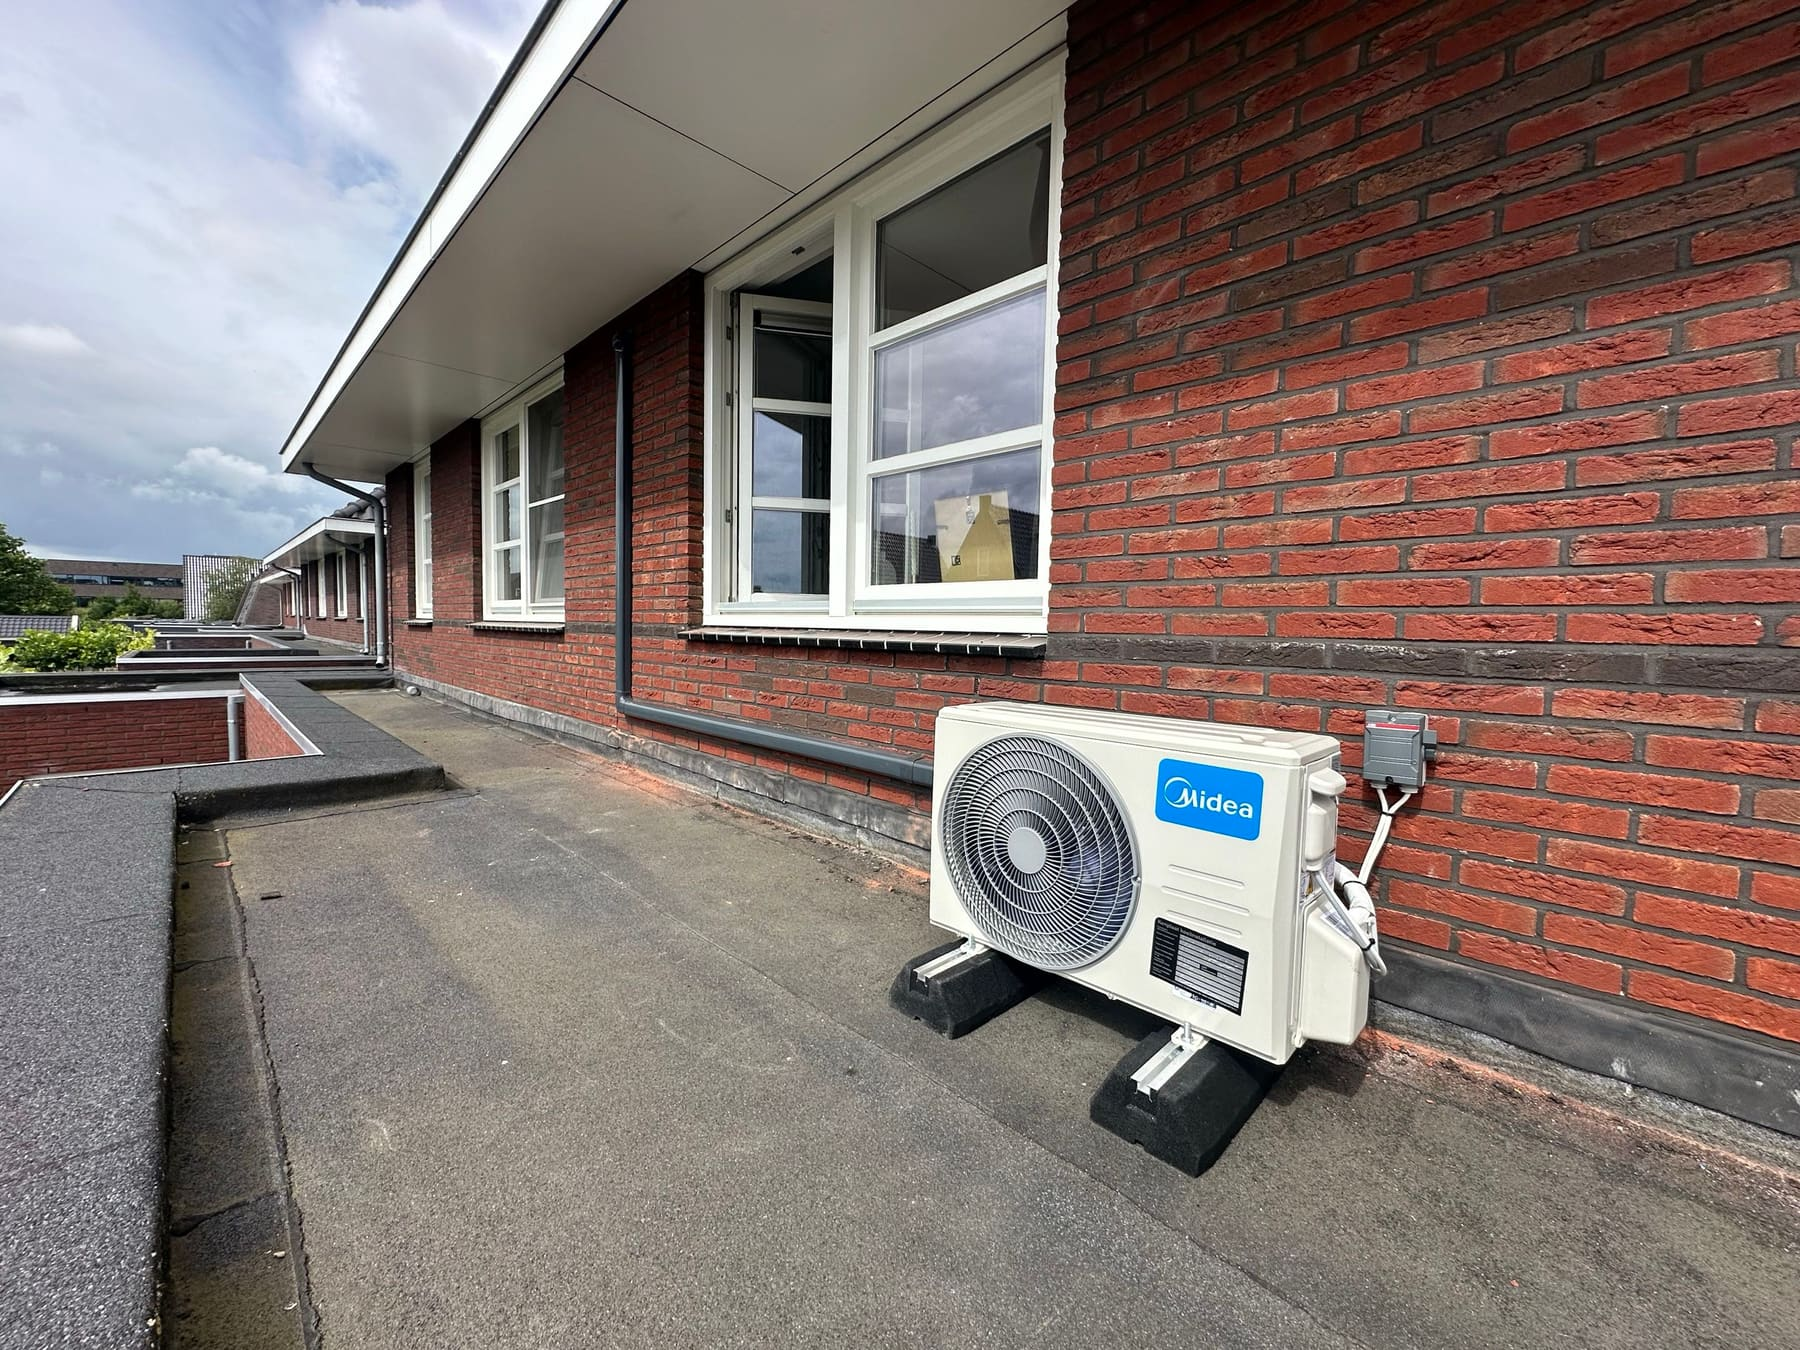
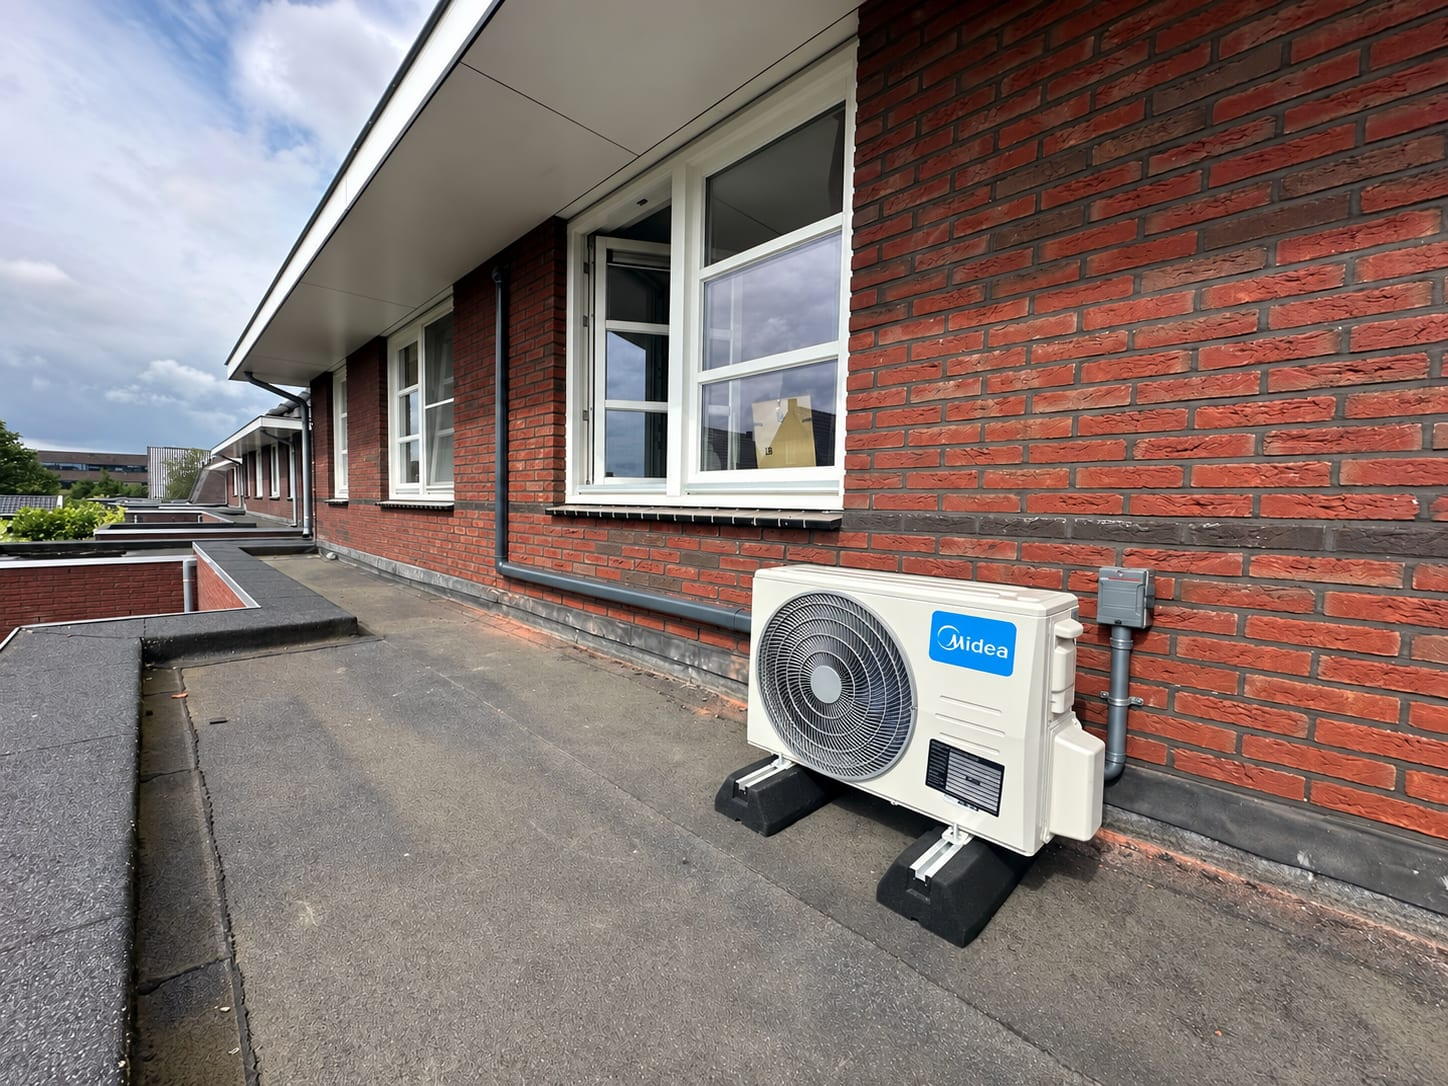
fix: refresh terras photo and relabel platdak unit as warmtepomp

diff --git a/src/data/mediaGallery.ts b/src/data/mediaGallery.ts
@@ -15,6 +15,8 @@ function shot(
  *   A narrower nevenunit sits beside it; we do not claim a specific hybrid model.
  * - cv-opstelling: Nefit ketel + Remeha Elga Ace (visible) → warmtepomp (hybride).
  * - warmtepomp-intergas: Intergas outdoor heat-pump unit (visible logo) → warmtepomp.
+ * - airco-platdak: outdoor heat-pump unit on spring dampers (not airco) → warmtepomp.
+ * - airco-terras: Midea outdoor airco unit on terrace dampers → airco.
  */
 export const workShots: WorkShot[] = [
   shot(
@@ -77,8 +79,8 @@ export const workShots: WorkShot[] = [
     {
       id: 'terras',
       asset: workPhotos.aircoTerras,
-      title: 'Airco-buitenunit op plat dak',
-      caption: 'Buitenunit op een plat dak, naast de gevel.',
+      title: 'Midea airco-buitenunit op dakterras',
+      caption: 'Midea buitenunit op dempers op een plat dakterras.',
       category: 'airco',
       href: '/airco',
     },
@@ -154,10 +156,10 @@ export const workShots: WorkShot[] = [
     {
       id: 'platdak',
       asset: workPhotos.aircoPlatdak,
-      title: 'Airco-buitenunit op dempers',
-      caption: 'Buitenunit op trillingsdempers op een plat dak.',
-      category: 'airco',
-      href: '/airco',
+      title: 'Warmtepomp-buitenunit op dempers',
+      caption: 'Warmtepomp-buitenunit op trillingsdempers op een plat dak.',
+      category: 'warmtepomp',
+      href: '/warmtepomp',
     },
     { kind: 'buitenunit' },
   ),

diff --git a/src/data/media.ts b/src/data/media.ts
@@ -118,11 +118,11 @@ export const workPhotos = {
   ),
   aircoTerras: photo(
     aircoTerras,
-    1800,
-    1350,
-    'Buitenunit op een plat dak bij een bakstenen gevel',
-    '76% 58%',
-    '80% 62%',
+    1448,
+    1086,
+    'Midea airco-buitenunit op dempers op een plat dakterras',
+    '68% 58%',
+    '72% 62%',
   ),
   aircoBeugel: photo(
     aircoBeugel,
@@ -152,7 +152,7 @@ export const workPhotos = {
     aircoPlatdak,
     1350,
     1800,
-    'Buitenunit op trillingsdempers op een plat dak',
+    'Warmtepomp-buitenunit op trillingsdempers op een plat dak',
     '50% 48%',
     '50% 52%',
   ),
